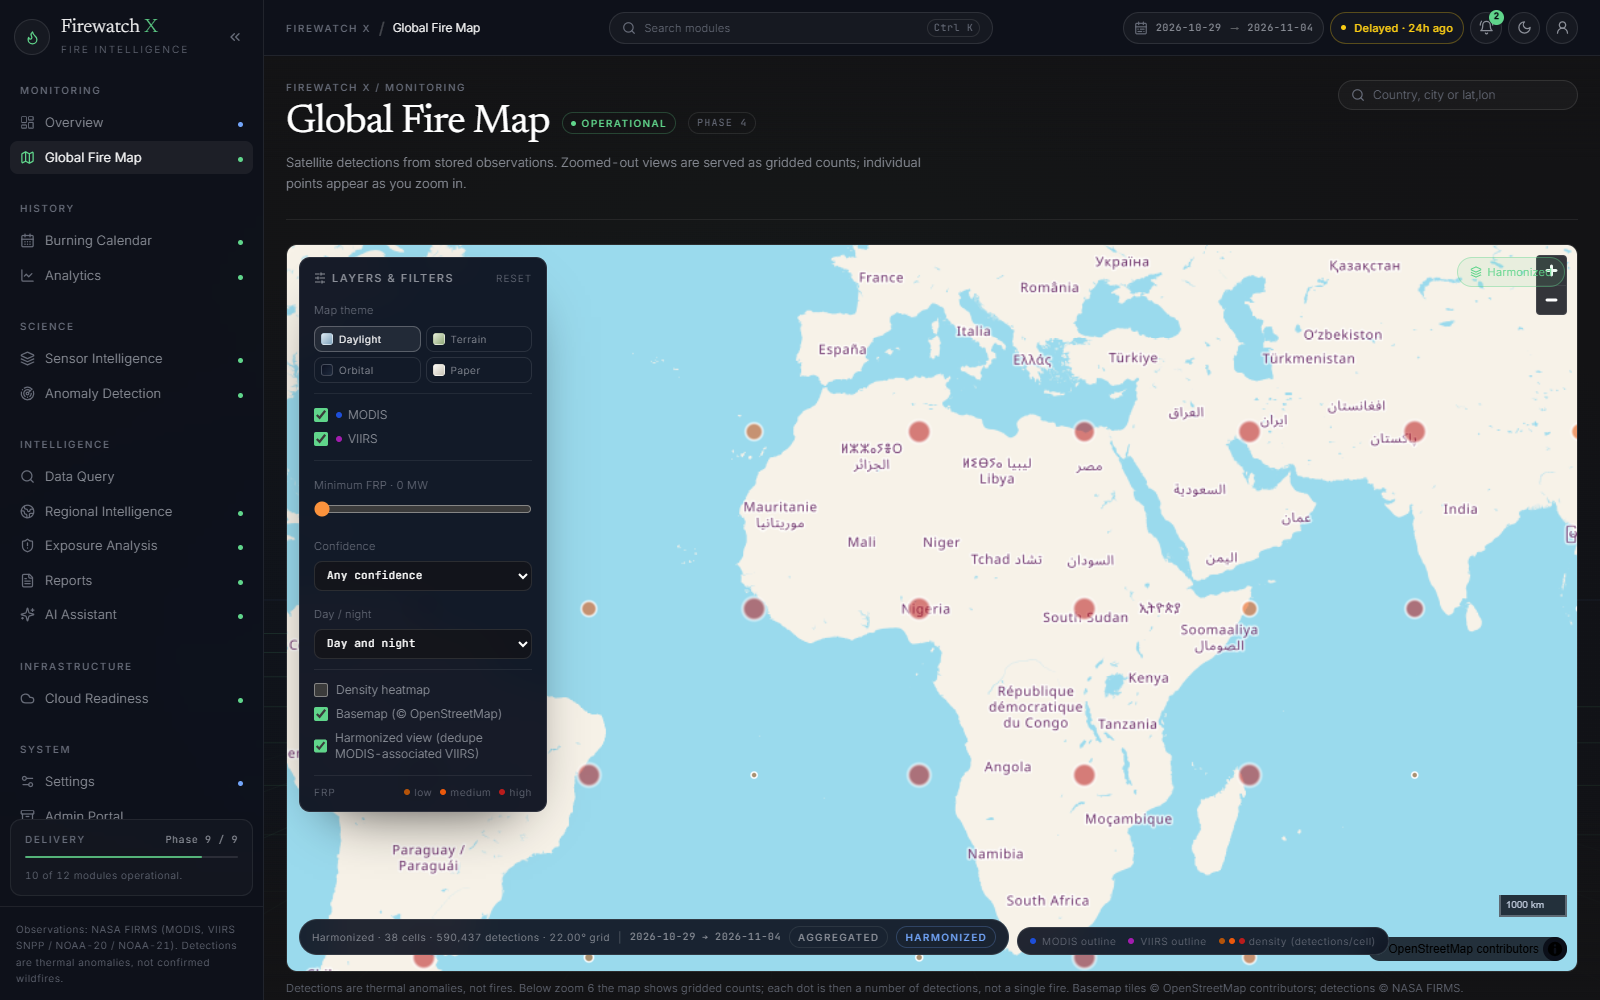
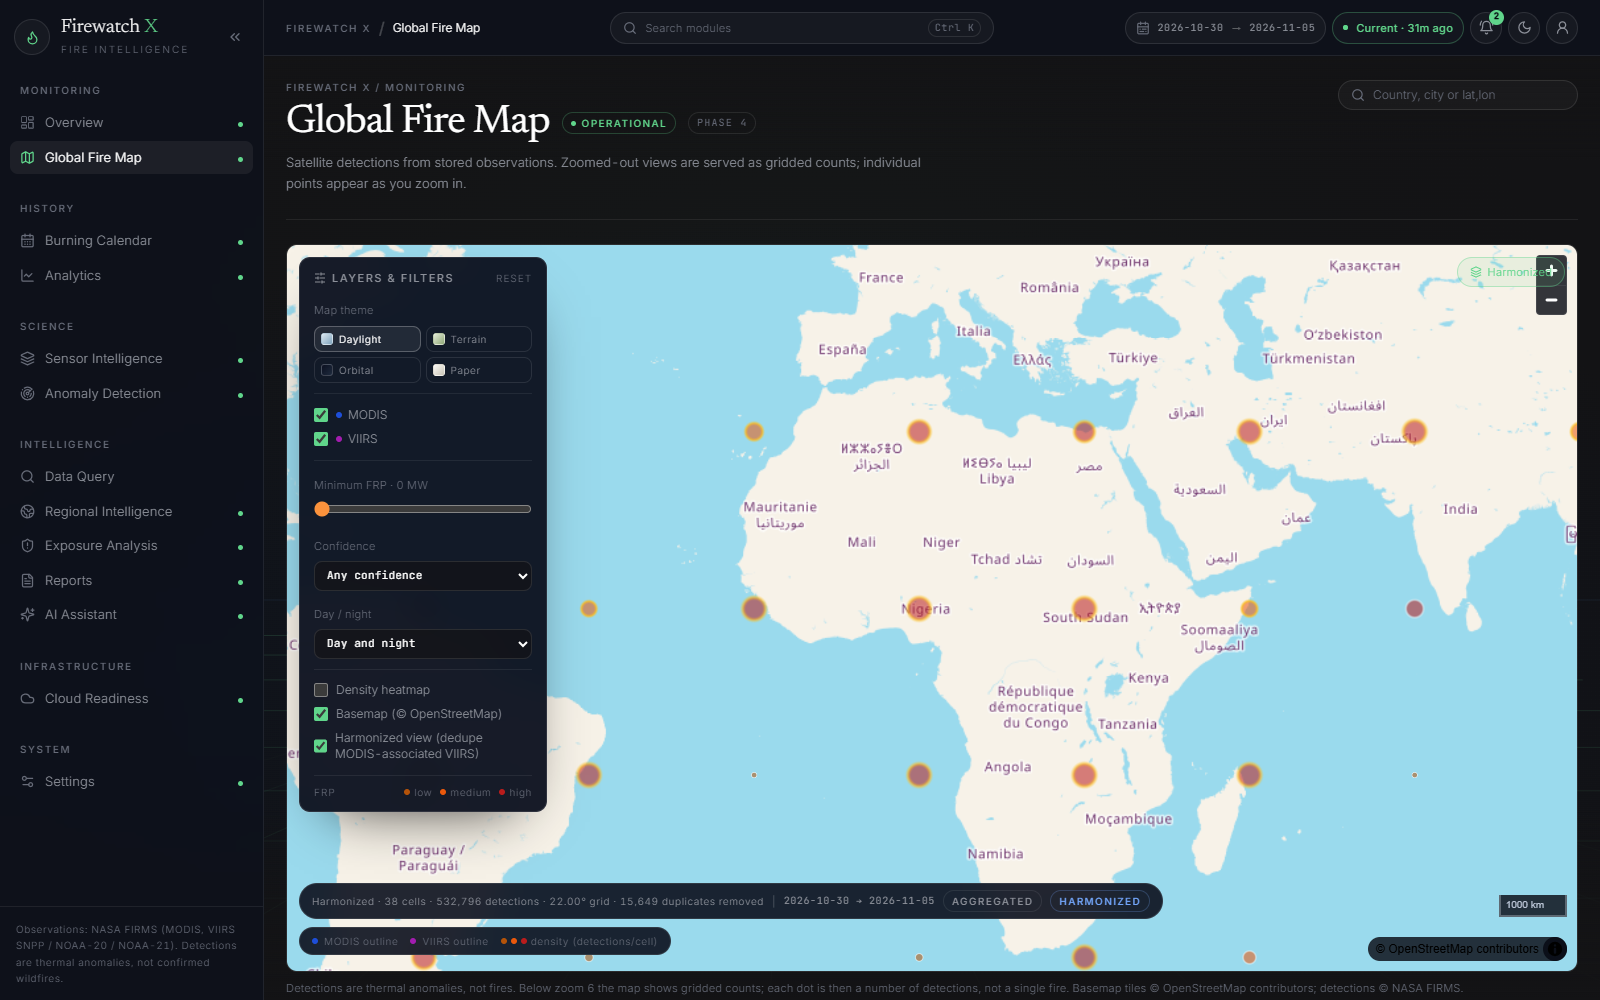
Make harmonized map changes visible with duplicate outlines and counts

diff --git a/frontend/src/components/map/FireMapCanvas.tsx b/frontend/src/components/map/FireMapCanvas.tsx
@@ -7,6 +7,8 @@ import type { Bounds, FireCell, FireFeatureCollection } from "@/lib/mapApi";
 import {
   cellColorExpression,
   cellRadiusExpression,
+  cellStrokeExpression,
+  cellStrokeWidth,
   cellsToFeatureCollection,
   frpColorExpression,
   heatColorExpression,
@@ -24,7 +26,11 @@ import {
 } from "./mapStyle";
 
 /** Applies a theme's field, basemap and fire palettes to an initialised map. */
-export function applyMapTheme(map: MapLibreMap, theme: MapTheme): void {
+export function applyMapTheme(
+  map: MapLibreMap,
+  theme: MapTheme,
+  harmonized = false,
+): void {
   map.setPaintProperty("background", "background-color", theme.background);
 
   if (map.getLayer(BASEMAP_LAYER)) {
@@ -51,8 +57,16 @@ export function applyMapTheme(map: MapLibreMap, theme: MapTheme): void {
   if (map.getLayer("fire-cells")) {
     map.setPaintProperty("fire-cells", "circle-color", cellColorExpression(theme.fire));
     map.setPaintProperty("fire-cells", "circle-opacity", theme.cellOpacity);
-    map.setPaintProperty("fire-cells", "circle-stroke-color", theme.stroke);
-    map.setPaintProperty("fire-cells", "circle-stroke-width", theme.strokeWidth);
+    map.setPaintProperty(
+      "fire-cells",
+      "circle-stroke-color",
+      cellStrokeExpression(theme, harmonized),
+    );
+    map.setPaintProperty(
+      "fire-cells",
+      "circle-stroke-width",
+      cellStrokeWidth(harmonized),
+    );
   }
 
   if (map.getLayer("fires-points")) {
@@ -79,6 +93,7 @@ interface FireMapCanvasProps {
   heat: boolean;
   basemap: boolean;
   theme: MapThemeId;
+  harmonized: boolean;
   onMoveEnd: (view: { bbox: Bounds; zoom: number }) => void;
   onSelectPoint: (id: string) => void;
   onSelectCell: (cell: FireCell) => void;
@@ -91,6 +106,7 @@ export function FireMapCanvas({
   heat,
   basemap,
   theme,
+  harmonized,
   onMoveEnd,
   onSelectPoint,
   onSelectCell,
@@ -100,11 +116,11 @@ export function FireMapCanvas({
   const mapRef = useRef<MapLibreMap | null>(null);
   const loadedRef = useRef(false);
   const handlers = useRef({ onMoveEnd, onSelectPoint, onSelectCell });
-  const latest = useRef({ points, cells, heat, basemap, theme });
+  const latest = useRef({ points, cells, heat, basemap, theme, harmonized });
 
   useEffect(() => {
-    latest.current = { points, cells, heat, basemap, theme };
-  }, [points, cells, heat, basemap, theme]);
+    latest.current = { points, cells, heat, basemap, theme, harmonized };
+  }, [points, cells, heat, basemap, theme, harmonized]);
 
   // Keep latest callbacks without re-creating the map.
   useEffect(() => {
@@ -207,8 +223,8 @@ export function FireMapCanvas({
           "circle-radius": cellRadiusExpression() as never,
           "circle-color": cellColorExpression() as never,
           "circle-opacity": 0.4,
-          "circle-stroke-color": "rgba(255,255,255,0.5)",
-          "circle-stroke-width": 0.5,
+          "circle-stroke-color": cellStrokeExpression(MAP_THEMES[theme], harmonized) as never,
+          "circle-stroke-width": cellStrokeWidth(harmonized) as never,
           "circle-blur": 0.35,
         },
       });
@@ -273,7 +289,11 @@ export function FireMapCanvas({
       );
       map.setLayoutProperty("fire-heat", "visibility", latest.current.heat ? "visible" : "none");
       map.setLayoutProperty(BASEMAP_LAYER, "visibility", latest.current.basemap ? "visible" : "none");
-      applyMapTheme(map, MAP_THEMES[latest.current.theme]);
+      applyMapTheme(
+        map,
+        MAP_THEMES[latest.current.theme],
+        latest.current.harmonized,
+      );
 
       for (const layer of ["fire-hits", "fire-cells"]) {
         map.on("mouseenter", layer, () => {
@@ -333,8 +353,8 @@ export function FireMapCanvas({
   useEffect(() => {
     const map = mapRef.current;
     if (!map || !loadedRef.current) return;
-    applyMapTheme(map, MAP_THEMES[theme]);
-  }, [theme]);
+    applyMapTheme(map, MAP_THEMES[theme], harmonized);
+  }, [theme, harmonized]);
 
   return (
     <div className="absolute inset-0">

diff --git a/frontend/src/pages/FireMapPage.tsx b/frontend/src/pages/FireMapPage.tsx
@@ -46,6 +46,7 @@ interface Meta {
   cellDegrees: number | null;
   truncated: boolean;
   limit: number;
+  matched: number;
 }
 
 const EMPTY_META: Meta = {
@@ -55,6 +56,7 @@ const EMPTY_META: Meta = {
   cellDegrees: null,
   truncated: false,
   limit: POINT_LIMIT,
+  matched: 0,
 };
 
 export function FireMapPage() {
@@ -143,6 +145,7 @@ export function FireMapPage() {
               cellDegrees: payload.cell_degrees,
               truncated: payload.truncated,
               limit: 0,
+              matched: payload.matched_viirs ?? 0,
             });
           })
         : fetchFireFeatures(query, POINT_LIMIT, controller.signal).then((payload) => {
@@ -155,6 +158,7 @@ export function FireMapPage() {
               cellDegrees: null,
               truncated: payload.properties.truncated,
               limit: payload.properties.limit,
+              matched: 0,
             });
           });
 
@@ -216,7 +220,7 @@ export function FireMapPage() {
 
   const statusLine = query
     ? meta.aggregated
-      ? `${filters.harmonized ? "Harmonized · " : ""}${formatCount(meta.shown)} cells · ${formatCount(meta.total)} detections${meta.cellDegrees ? ` · ${meta.cellDegrees.toFixed(2)}° grid` : ""}`
+      ? `${filters.harmonized ? "Harmonized · " : ""}${formatCount(meta.shown)} cells · ${formatCount(meta.total)} detections${meta.cellDegrees ? ` · ${meta.cellDegrees.toFixed(2)}° grid` : ""}${filters.harmonized && meta.matched > 0 ? ` · ${formatCount(meta.matched)} duplicates removed` : ""}`
       : `${filters.harmonized ? "Harmonized · " : ""}${formatCount(meta.shown)} of ${formatCount(meta.total)} detections${meta.truncated ? " (truncated)" : ""}`
     : "No sensor selected";
 
@@ -307,6 +311,7 @@ export function FireMapPage() {
             heat={filters.heat}
             basemap={filters.basemap}
             theme={filters.theme}
+            harmonized={filters.harmonized}
             onMoveEnd={setView}
             onSelectPoint={setSelectedId}
             onSelectCell={(cell) =>

diff --git a/frontend/src/components/map/fireLayers.ts b/frontend/src/components/map/fireLayers.ts
@@ -82,6 +82,20 @@ export function cellRadiusExpression(): unknown[] {
  * Cells are counts, so they are coloured by density rather than by a single
  * detection's FRP - otherwise one intense detection recolours an entire cell.
  */
+export function cellStrokeExpression(
+  colors: { stroke: string },
+  harmonized: boolean,
+): unknown {
+  if (!harmonized) return colors.stroke;
+  return ["case", [">", ["get", "matched_viirs"], 0], "#FBBF24", colors.stroke];
+}
+
+export function cellStrokeWidth(harmonized: boolean): unknown {
+  return harmonized
+    ? ["case", [">", ["get", "matched_viirs"], 0], 1.8, 0.5]
+    : 0.5;
+}
+
 export function cellColorExpression(colors: FireColors = FIRE_COLORS): unknown[] {
   return ["step", ["get", "count"], colors.low, 250, colors.medium, 1500, colors.high];
 }
@@ -127,6 +141,7 @@ export function cellsToFeatureCollection(cells: FireCell[]): {
         count: cell.count,
         modis: cell.modis,
         viirs: cell.viirs,
+        matched_viirs: cell.matched_viirs,
         max_frp_mw: cell.max_frp_mw,
       },
     })),

diff --git a/frontend/src/lib/mapApi.ts b/frontend/src/lib/mapApi.ts
@@ -10,6 +10,7 @@ export interface FireCell {
   count: number;
   modis: number;
   viirs: number;
+  matched_viirs?: number;
   max_frp_mw: number | null;
   latest_acquired_at: string | null;
 }
@@ -22,6 +23,7 @@ export interface AggregateResponse {
   note?: string | null;
   zoom: number;
   total_detections: number;
+  matched_viirs?: number;
   returned_cells: number;
   truncated: boolean;
   bbox: number[];

diff --git a/backend/app/services/map_aggregation.py b/backend/app/services/map_aggregation.py
@@ -70,8 +70,10 @@ def aggregate_observations(
             rollup_rows = rollup_rows[:limit]
             cells = []
             total = 0
+            total_matched = 0
             for row in rollup_rows:
                 total += row["detections"]
+                total_matched += int(row.get("matched_viirs") or 0)
                 cells.append(
                     {
                         "longitude": round(
@@ -83,6 +85,7 @@ def aggregate_observations(
                         "count": row["detections"],
                         "modis": row["modis"],
                         "viirs": row["viirs"],
+                        "matched_viirs": int(row.get("matched_viirs") or 0),
                         "max_frp_mw": row["max_frp_mw"],
                         # The rollup has no per-detection timestamps.
                         "latest_acquired_at": None,
@@ -94,6 +97,7 @@ def aggregate_observations(
                 "requested_cell_degrees": cell,
                 "zoom": int(zoom),
                 "total_detections": total,
+                "matched_viirs": total_matched,
                 "returned_cells": len(cells),
                 "truncated": truncated,
                 "bbox": bbox.as_list(),
@@ -143,6 +147,7 @@ def aggregate_observations(
                 "count": int(count),
                 "modis": int(modis or 0),
                 "viirs": int(viirs or 0),
+                "matched_viirs": 0,
                 "max_frp_mw": float(max_frp) if max_frp is not None else None,
                 "latest_acquired_at": latest,
             }
@@ -154,6 +159,7 @@ def aggregate_observations(
         "requested_cell_degrees": cell,
         "zoom": int(zoom),
         "total_detections": total,
+        "matched_viirs": 0,
         "returned_cells": len(cells),
         "truncated": truncated,
         "bbox": bbox.as_list(),

diff --git a/backend/app/services/rollups.py b/backend/app/services/rollups.py
@@ -165,12 +165,13 @@ def map_cells(
                 {total_expr} AS detections,
                 sum(CASE WHEN sensor = 'MODIS' THEN detections ELSE 0 END) AS modis,
                 {viirs_expr} AS viirs,
+                sum(matched_viirs) AS matched_viirs,
                 max(frp_max_mw) AS max_frp_mw
             FROM {CELL_ROLLUP_NAME}
             WHERE {' AND '.join(clauses)}
             GROUP BY 1, 2
         )
-        SELECT lat_cell, lon_cell, detections, modis, viirs, max_frp_mw
+        SELECT lat_cell, lon_cell, detections, modis, viirs, matched_viirs, max_frp_mw
         FROM grouped
         ORDER BY detections DESC
         LIMIT :limit
@@ -184,6 +185,7 @@ def map_cells(
             "detections": int(row.detections),
             "modis": int(row.modis or 0),
             "viirs": int(row.viirs or 0),
+            "matched_viirs": int(row.matched_viirs or 0),
             "max_frp_mw": float(row.max_frp_mw) if row.max_frp_mw is not None else None,
         }
         for row in rows

diff --git a/backend/app/schemas/map.py b/backend/app/schemas/map.py
@@ -15,6 +15,7 @@ class FireCell(BaseModel):
     count: int
     modis: int
     viirs: int
+    matched_viirs: int = 0
     max_frp_mw: float | None = None
     latest_acquired_at: datetime | None = None
 
@@ -25,6 +26,7 @@ class AggregateResponse(BaseModel):
     requested_cell_degrees: float | None = None
     zoom: int
     total_detections: int
+    matched_viirs: int = 0
     returned_cells: int
     truncated: bool
     bbox: list[float]

diff --git a/README.md b/README.md
@@ -86,7 +86,7 @@ These are live captures of the console on the workstation (PostgreSQL store, 202
 | Harmonization: `S = wₜT + wₛG + w_fF`, probable/possible/rejected with full evidence | Working |
 | Sensor Intelligence: MODIS/VIIRS totals, matches and events scoped to the header period, with evidence | Working |
 | Event grouping: spatiotemporal DBSCAN, per-event provenance and FRP aggregates | Working |
-| Map: MapLibre globe, four themes, rollup-backed viewport aggregation, FRP/confidence filters, harmonized toggle (`?harmonized=1`) | Working |
+| Map: MapLibre globe, rollup-backed aggregation, FRP/confidence filters, harmonized toggle (`?harmonized=1`) with amber duplicate outlines and removed-count | Working |
 | Calendar: day/week/month/year buckets, coverage states, drill-down to detections | Working |
 | Query (Intelligence): time window, region, sensor/satellite, FRP/confidence scope | Working |
 | Ingestion: single-source windows and one-click all-source runs | Working |

diff --git a/docs/worklog.md b/docs/worklog.md
@@ -251,6 +251,10 @@ A second working block on the same day, after the Amazon teardown.
   `scripts/create_admin`.
 - **Handover:** `docs/handover.md` records access, secrets policy, local/container setup,
   the code map, runbooks, verification, incidents and a first-day checklist.
+- **Harmonized map legibility.** Because only ~3?4% of detections are duplicates, raw and
+  harmonized cell colours are usually identical. Cells that lost duplicates now get an amber
+  outline and the status strip reports the removed count; the aggregate response carries
+  `matched_viirs` per cell.
 - **Tests:** backend **241**, frontend **76**; auth, report formats and deletion
   covered, plus frontend login and ingestion-run deletion preview.
 

diff --git a/docs/user_guide.md b/docs/user_guide.md
@@ -108,6 +108,9 @@ The map is the Phase 4 workspace.
   every mode.
 - **Filters**: MODIS/VIIRS toggles, minimum FRP, confidence floor, day/night, optional density
   heatmap, optional basemap.
+- **Harmonized view**: the toggle (or `?harmonized=1`) subtracts VIIRS detections already seen
+  by MODIS. The reduction is usually small, so cells that lost duplicates get an amber outline
+  and the status strip reports how many were removed; colours alone rarely change.
 - **Search**: type a country, a city or `lat,lon` and press Enter to fly there. The list offers
   alternative matches.
 - **Inspect**: click any detection to open the panel with coordinates, UTC acquisition time,
